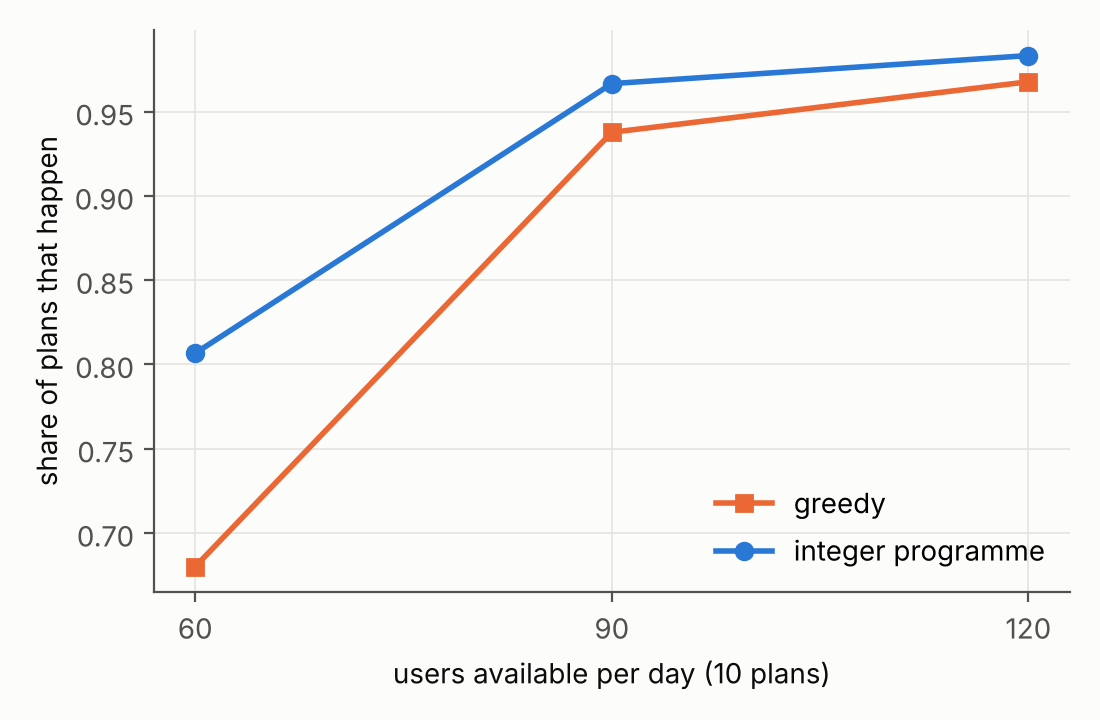
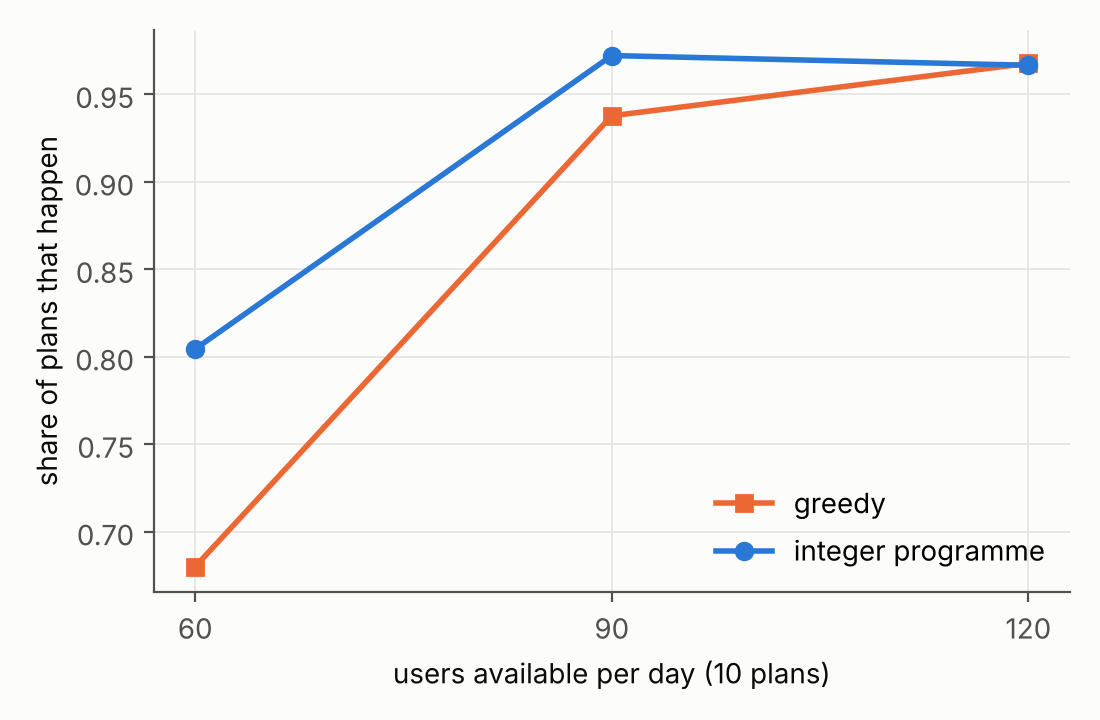
Regenerate matching results and figures with the reviewed code
Claude-Session: https://claude.ai/code/session_01WeGJ7eVmuCpNNj7fUXeVuH

diff --git a/scripts/09_figures.py b/scripts/09_figures.py
@@ -21,6 +21,7 @@ plt.rcParams.update({"figure.facecolor": SURFACE, "axes.facecolor": SURFACE, "ax
 data = {"noshow": noshow_data(), "hotel": hotel_data()}
 test = {name: split(d["df"], d["date"], date)[1].index for (name, d), date in zip(data.items(), ["2016-05-25", "2016-12-31"])}
 preds = {name: pd.read_parquet(root / f"data/processed/preds_{name}_all.parquet") for name in data}
+titles = {"noshow": "no-show data", "hotel": "hotel data"}
 
 
 def save(fig, name):
@@ -34,7 +35,7 @@ fig, ax = plt.subplots(figsize=(6, 3.8))
 drivers = pd.read_csv(tables / "drivers.csv").query("driver == 'lead'")
 for name, color, marker in [("noshow", BLUE, "o"), ("hotel", ORANGE, "s")]:
     d = drivers[drivers.dataset == name]
-    ax.plot(d.level, d.rate, color=color, marker=marker, label=f"{name} data")
+    ax.plot(d.level, d.rate, color=color, marker=marker, label=titles[name])
 ax.set(xlabel="lead time (days)", ylabel="share of broken commitments", ylim=(0, None))
 ax.legend(loc="upper left")
 save(fig, "lead_time")
@@ -49,7 +50,7 @@ for ax, name in zip(axes, data):
         observed, predicted = calibration_curve(y, preds[name][col], n_bins=10, strategy="quantile")
         ax.plot(predicted, observed, color=color, marker=marker, label=model)
     ax.plot([0, 1], [0, 1], color=MUTED, linewidth=1, linestyle="--", label="perfect calibration")
-    ax.set(title=f"{name} data", xlabel="predicted chance of showing up", ylabel="observed share who showed up",
+    ax.set(title=titles[name], xlabel="predicted chance of showing up", ylabel="observed share who showed up",
            xlim=(0.3, 1), ylim=(0.3, 1))
 axes[0].legend(loc="upper left")
 save(fig, "reliability")
